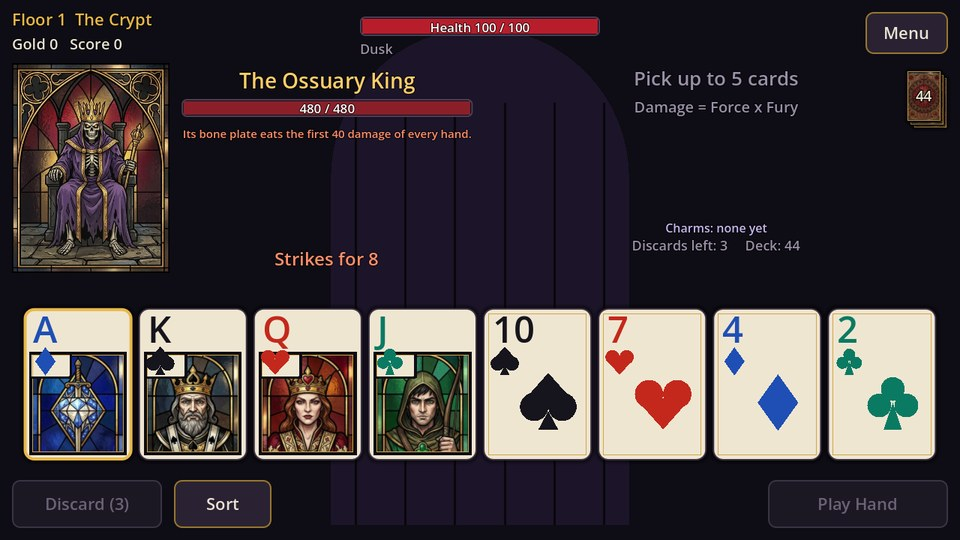
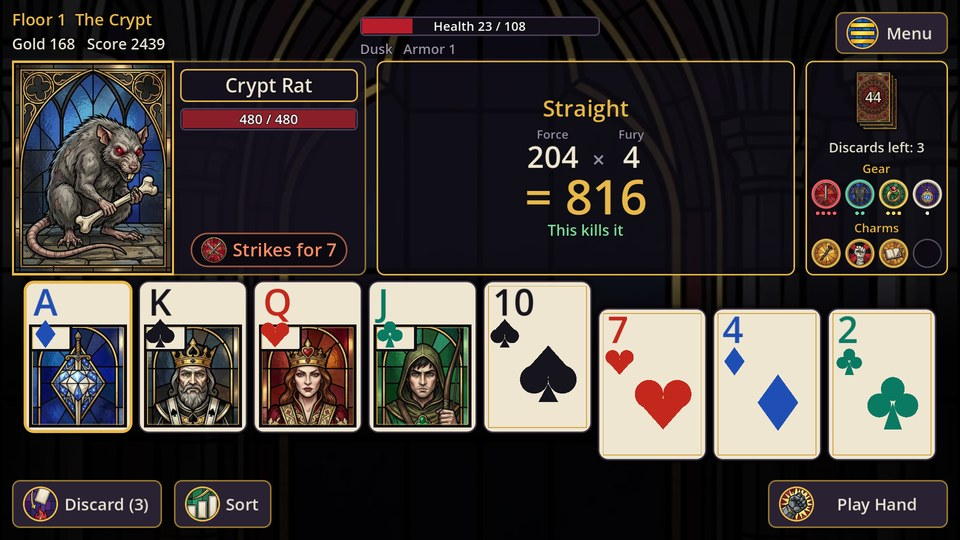
Gravehand card: version 0.4.1, new fight picture and Updated stamp
Claude-Session: https://claude.ai/code/session_0117TTYDSFhPqKWFFkDdBuwH

diff --git a/index.html b/index.html
@@ -99,11 +99,11 @@ h2 a[href="lo-fi-league/"]{font-size:.9em;word-spacing:.35em}h2 a[href="pixel-ho
 </div>
 </article>
 <article class="card" data-repo="gravehand">
-<a class="shot" href="gravehand/"><img src="images/gravehand.jpg?v=0.4.0" alt="Gravehand: a stained glass Ossuary King faces a hand of court cards and Aces" width="960" height="540" loading="lazy"></a>
+<a class="shot" href="gravehand/"><img src="images/gravehand.jpg?v=0.4.1" alt="Gravehand: a fight with the Crypt Rat in stained glass, with the damage panel, gear and charm slots and a hand of cards" width="960" height="540" loading="lazy"></a>
 <div class="body">
 <div class="top"><h2><a href="gravehand/">Gravehand</a></h2><span class="tag">Play your hand. Bury the rest.</span></div>
-<p class="desc">Poker hands against a dark gothic dungeon, in stained glass art. Pick your route down the map, see the damage before you strike and take the monster's blows in return. Loot gear in four tiers, collect charms that bend your Fury, buy rites in Tallowgate and beat three bosses that change the rules. Earn stars, daily goals and levels. Candlelight, Dusk and Midnight. Five save slots. Touch, keyboard or Xbox controller, upright or sideways.</p>
-<p class="meta">Browser and Android<span class="ver"> · Version 0.4.0</span> <span class="upd">· Updated <time datetime="2026-11-21T14:50-06:00">Nov 21, 2026, 2:50 PM CT</time></span></p>
+<p class="desc">Poker hands against a dark gothic dungeon, in stained glass art. Climb the map room by room, see the damage before you strike and take the monster's blows in return. Loot gear in four tiers, collect charms that bend your Fury, buy rites in Tallowgate and beat three bosses that change the rules. Earn stars, daily goals and levels. Candlelight, Dusk and Midnight. Five save slots. Touch, keyboard or Xbox controller, upright or sideways.</p>
+<p class="meta">Browser and Android<span class="ver"> · Version 0.4.1</span> <span class="upd">· Updated <time datetime="2026-11-21T17:26-06:00">Nov 21, 2026, 5:26 PM CT</time></span></p>
 <div class="actions"><a class="btn" href="gravehand/">Open game page</a></div>
 </div>
 </article>
